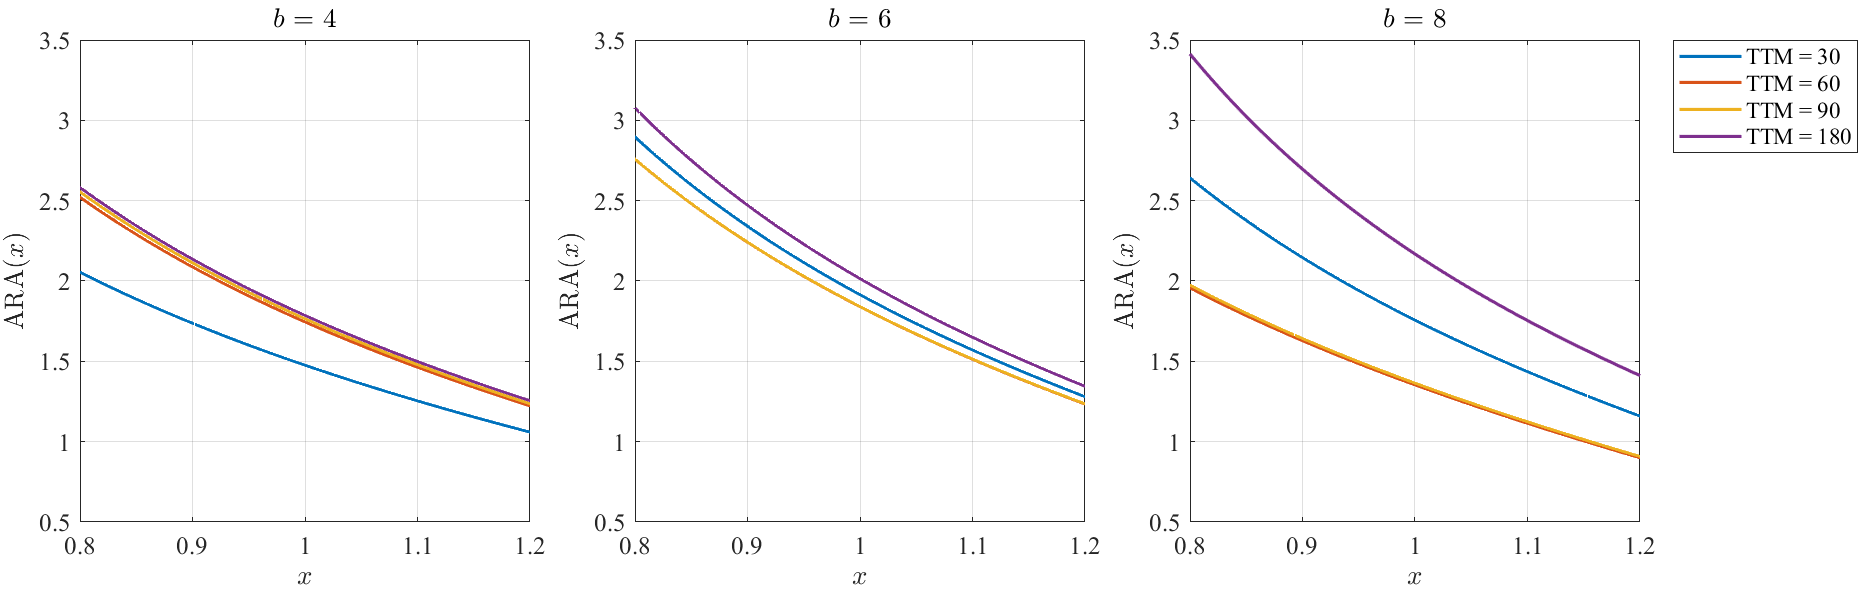
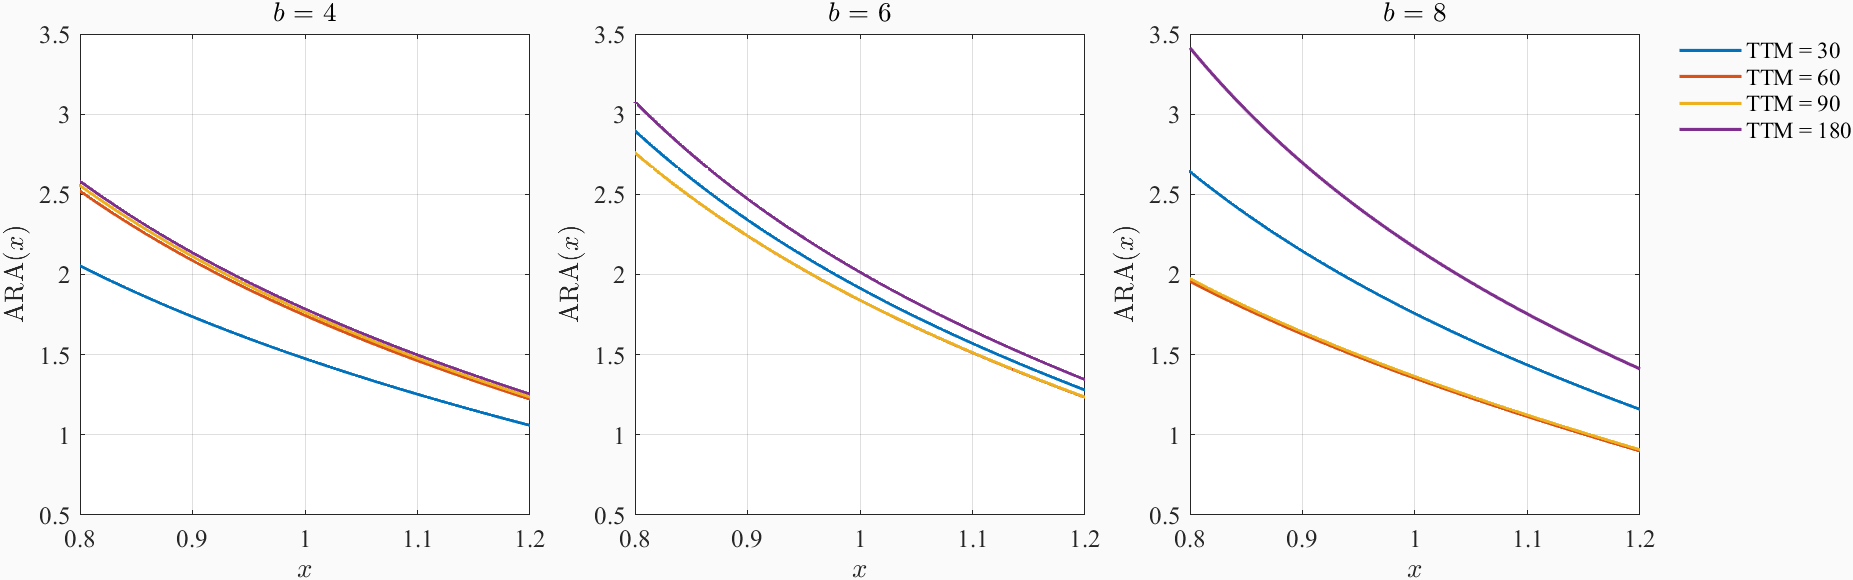
Set background color and remove legend box

diff --git a/04  風險偏好指標（Risk Preference）/plot_risk_metric_by_TTM_beamer.m b/04  風險偏好指標（Risk Preference）/plot_risk_metric_by_TTM_beamer.m
@@ -42,8 +42,9 @@ function plot_risk_metric_by_TTM_beamer(RiskMetrics, metric_name, y_label, y_min
 
     legend(arrayfun(@(r) sprintf('TTM = %d', r.TTM), RiskMetrics, 'UniformOutput', false), ...
            'Location', 'bestoutside');
+    legend boxoff
 
     set(gcf, 'Position', [200, 200, 1200, 380]);
     filename = sprintf('Slide_RiskMetric_MultiTTM_%s.png', filename_base);
-    saveas(gcf, fullfile(Path_Output, filename));
+    exportgraphics(gcf, fullfile(Path_Output, filename), 'BackgroundColor', mBackground);
 end
